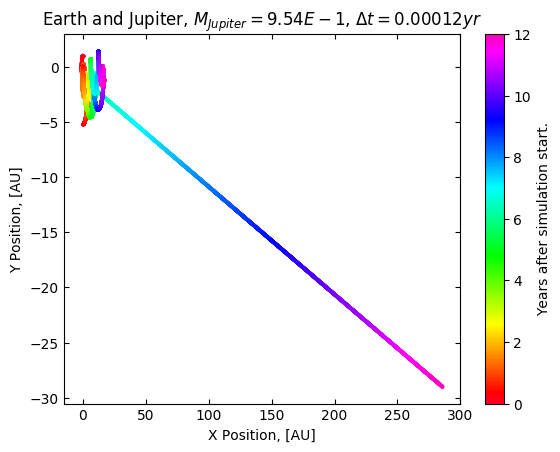
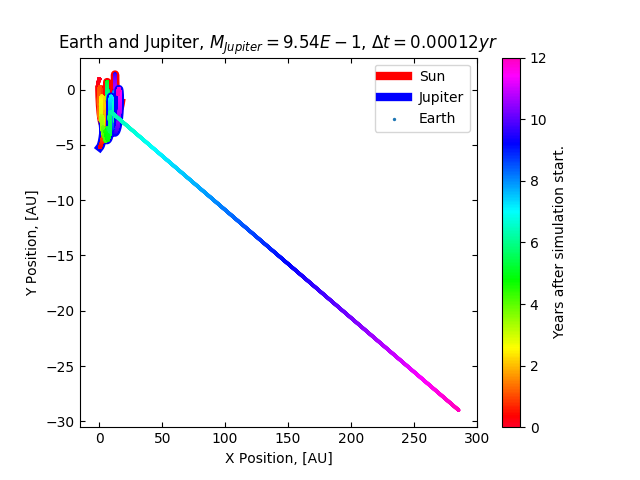
Fixed jupiter plotting

diff --git a/code/Plotter/2d-plot_jupiter.py b/code/Plotter/2d-plot_jupiter.py
@@ -5,26 +5,26 @@ import sys
 
 
 earth_x = []; earth_y = []; earth_z = []
-with open('../complete_solar-system/output/jupiter/Earthg.txt', 'r') as f:
+with open('../complete_solar-system/output/jupiter/Earthg1000.txt', 'r') as f:
     for line in f:
         l = line.split("\t")
         earth_x.append(float(l[0])); earth_y.append(float(l[1])); earth_z.append(float(l[2]))
 
 jupiter_x = []; jupiter_y = []; jupiter_z = []
-with open('../complete_solar-system/output/jupiter/Jupiterg.txt', 'r') as f:
+with open('../complete_solar-system/output/jupiter/Jupiterg1000.txt', 'r') as f:
     for line in f:
         l = line.split("\t")
         jupiter_x.append(float(l[0])); jupiter_y.append(float(l[1])); jupiter_z.append(float(l[2]))
 ##
 
 sun_x = []; sun_y = []; sun_z = []
-with open('../complete_solar-system/output/jupiter/Sung.txt', 'r') as f:
+with open('../complete_solar-system/output/jupiter/Sung1000.txt', 'r') as f:
     for line in f:
         l = line.split("\t")
         sun_x.append(float(l[0])); sun_y.append(float(l[1])); sun_z.append(float(l[2]))
 
 Plotskip = 10 #Plot only N'th point in the vectors
-dotsize = 3
+dotsize = 2
 
 #plt.scatter(sun_x[::Plotskip], sun_y[::Plotskip], s=dotsize, label = "Sun", color = "orange")
 #plt.scatter(earth_x[::Plotskip], earth_y[::Plotskip],  s=dotsize, label = "Earth", color = "blue")
@@ -36,9 +36,14 @@ dt = yrs/(len(earth_x))
 
 #Plotting read data
 cm = cm.get_cmap('gist_rainbow')
-sc = plt.scatter(earth_x[::Plotskip], earth_y[::Plotskip],s=dotsize, label= "Earth", c = t, cmap = cm)
-sc2 = plt.scatter(jupiter_x[::Plotskip], jupiter_y[::Plotskip],s=dotsize, label= "Jupiter", c = t, cmap = cm)
-sc1 = plt.scatter(sun_x[::Plotskip], sun_y[::Plotskip],s=dotsize, label= "Sun", c = t, cmap = cm)
+plt.plot(sun_x[::Plotskip], sun_y[::Plotskip],linewidth=dotsize*3, label= "Sun", color='r', zorder=0)
+sc1 = plt.scatter(sun_x[::Plotskip], sun_y[::Plotskip],s=dotsize, c = t, cmap = cm, zorder=1)
+
+plt.plot(jupiter_x[::Plotskip], jupiter_y[::Plotskip],linewidth=dotsize*3, label= "Jupiter", color='b', zorder=3)
+sc2 = plt.scatter(jupiter_x[::Plotskip], jupiter_y[::Plotskip],s=dotsize, c = t, cmap = cm, zorder=4)
+
+sc = plt.scatter(earth_x[::Plotskip], earth_y[::Plotskip],s=dotsize, label = "Earth", c = t, cmap = cm, zorder=5)
+
 cb = plt.colorbar(sc)
 cb.set_label("Years after simulation start.")
 
@@ -47,10 +52,10 @@ cb.set_label("Years after simulation start.")
 plt.ylabel("Y Position, [AU]")
 plt.xlabel("X Position, [AU]")
 plt.tick_params(direction='in', top = 'true', right = 'true')
-plt.title(r"Earth and Jupiter, $M_{Jupiter}=9.54E-4$, $\Delta t = %g yr$"%dt)
+plt.title(r"Earth and Jupiter, $M_{Jupiter}=9.54E-1$, $\Delta t = %g yr$"%dt)
 #plt.ylim(0,13.5)
 #plt.yscale('log')
-#plt.legend(loc="upper left")
+plt.legend()
 
 plt.savefig('Earth-Sun_Test.png', bbox_inches='tight')
 plt.show()
